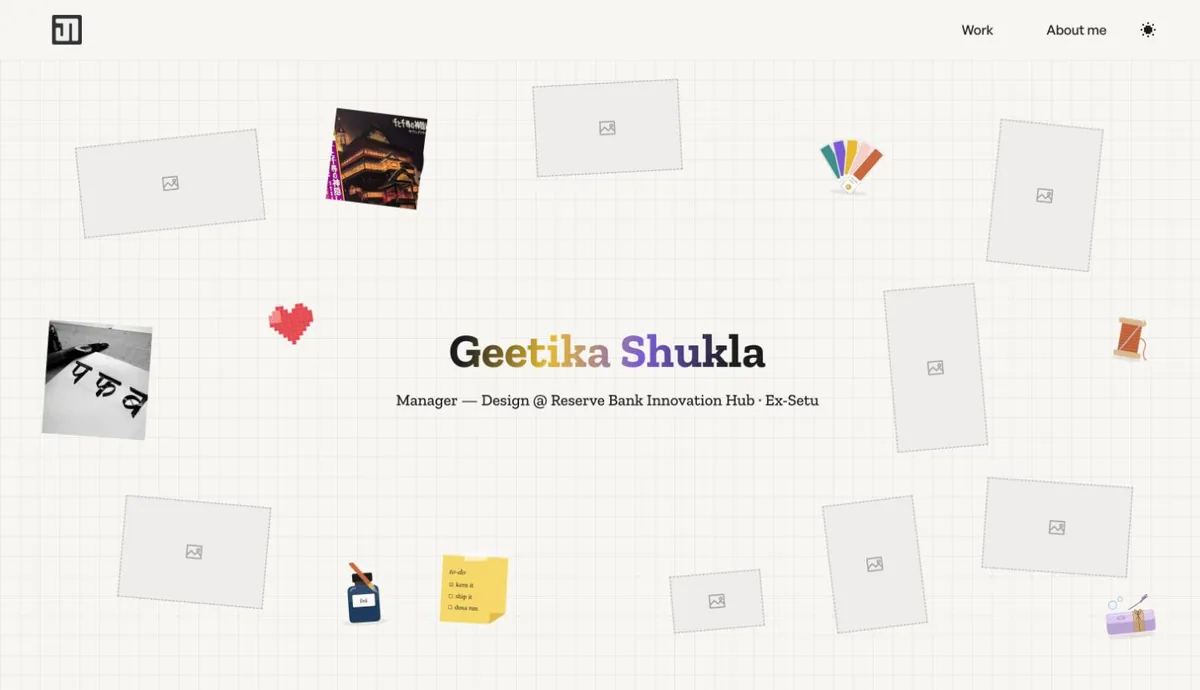
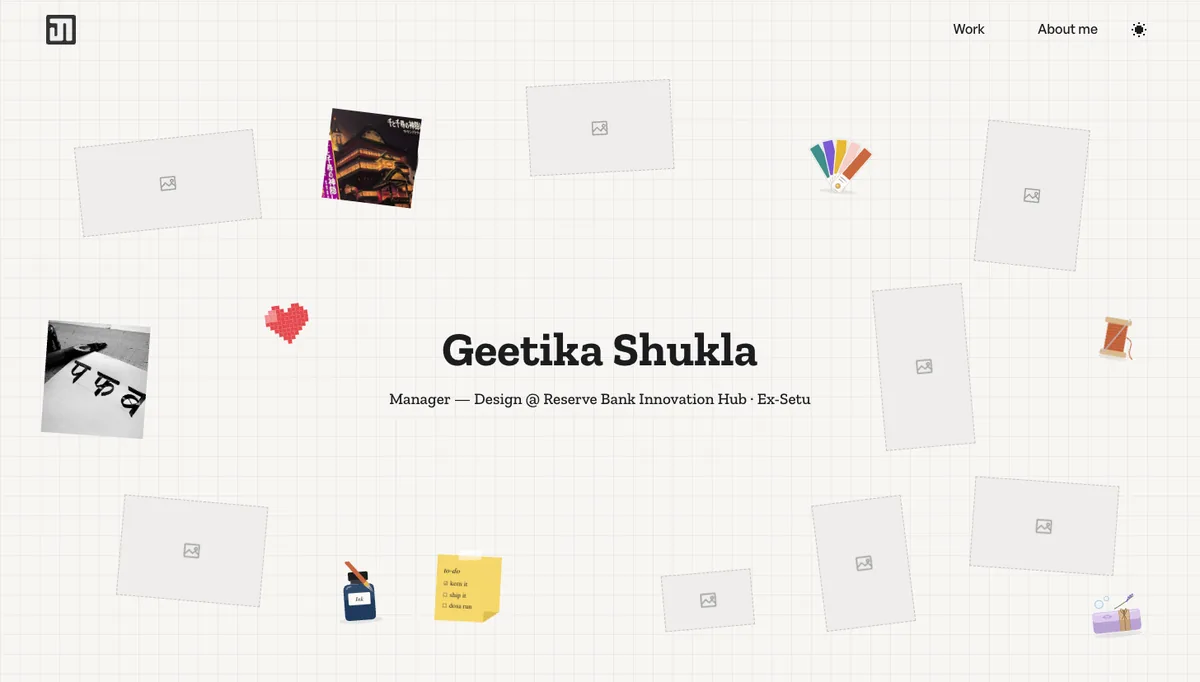
AI: the website thumbnail retaken from the site as it is now

diff --git a/src/data/ai-projects.ts b/src/data/ai-projects.ts
@@ -10,7 +10,7 @@
 // This website, for its own thumbnail
 import siteHero from "@/assets/images/motion/site-hero.webp";
 import siteWork from "@/assets/images/motion/site-work.webp";
-import siteJournal from "@/assets/images/motion/site-journal.webp";
+import siteStory from "@/assets/images/motion/site-story.webp";
 import siteKindWords from "@/assets/images/motion/site-kind-words.webp";
 import gffKeynote from "@/assets/images/motion/gff-keynote-cover.webp";
 
@@ -55,6 +55,6 @@ export const AI_PROJECTS: AIProject[] = [
         description : "I manually coded v1 of the website. For v2, I designed and prompted; Claude Code built it.",
         tools       : ["Claude Code", "Next.js"],
         placeholder : false,
-        screens     : [siteHero, siteWork, siteJournal, siteKindWords],
+        screens     : [siteHero, siteWork, siteStory, siteKindWords],
     },
 ];
